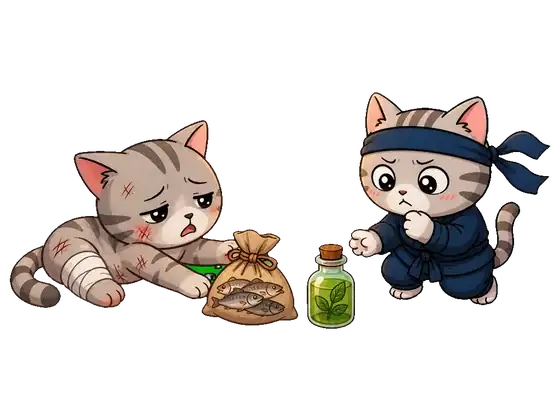
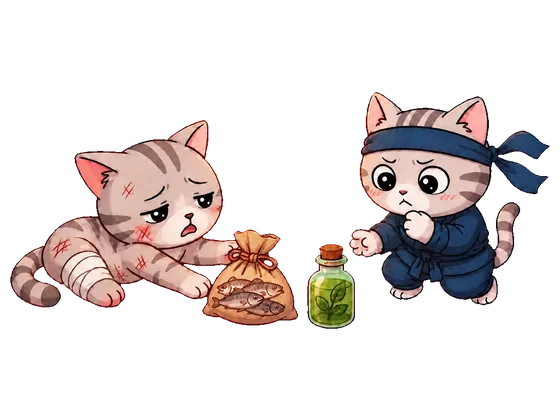
球球：江湖救急開場圖重生，拿掉村貓手臂底下那塊去不掉的深綠色
附目前那張本身重畫、只修那塊（兩張結果圖是照這張畫的，構圖不能變）；參考圖照新圖重建。

Changed region(s): [[0.0, 0.2167, 0.9714, 0.8048]]

diff --git a/tools/make_qiuqiu_fix_0914.py b/tools/make_qiuqiu_fix_0914.py
@@ -70,8 +70,46 @@ elif batch == 'b':
         if not (ROOT / ref).exists() or (ROOT / ref).stat().st_mtime < opening.stat().st_mtime:
             raise SystemExit(f'{ref} 還是舊的：先把新的 event_{eid} 進倉、刪掉這張參考圖再重建（見 make_event_result_jobs.py）')
         jobs[fid] = {'prompt': patched(prompt_of(res[fid]), FACE, fid), 'ref': ref}
+elif batch == 'c':
+    # 江湖救急開場圖：村貓伸出去的手臂底下卡著一小塊深綠色（去背去不掉，原稿已經不在）。使用者 2026-09-14「生」。
+    # **附目前這張本身重畫、只拿掉那塊**：兩張結果圖（rescue_r0、今天剛重生的 rescue_r1）是照這張畫的，換構圖就對不上。
+    # 參考圖 event_refs/rescue.png 就是這張開場圖鋪白底；生完進倉後要照新圖重建（續集的長相全靠它）
+    fid = 'event_rescue.png'
+    ref = 'tools/ref/event_refs/rescue.png'
+    opening = ROOT / 'public' / 'assets' / 'bg' / 'event_rescue.webp'
+    if (ROOT / ref).stat().st_mtime < opening.stat().st_mtime:
+        raise SystemExit(f'{ref} 比開場圖舊：它應該就是目前這張開場圖鋪白底，先重建再生')
+    jobs[fid] = {'prompt': (
+        "A single scene illustration for a story event in a cute cartoon roguelike card game, landscape composition.\n\n"
+        "**THIS IS A CORRECTED REDRAW OF THE ATTACHED PICTURE.** Redraw the attached picture as closely as you can - the "
+        "SAME injured village cat lying on its side with its bandaged leg, the SAME ninja cat, the SAME pouch of dried "
+        "fish and the SAME bottle of herbal medicine, with the SAME poses, colours, sizes and layout. Change ONLY the one "
+        "mistake described below.\n\n"
+        "Scene: an injured village cat lying on its side with a bandaged leg, weakly pushing forward two things - a small "
+        "pouch of dried fish and a bottle of herbal medicine - for the grey ninja cat to choose from\n\n"
+        "**THE ONE THING TO FIX:** in the attached picture a small dark green blotch with two grey spots is stuck in the "
+        "gap UNDER the village cat's outstretched front leg, between its chest and the fish pouch. It is a drawing "
+        "mistake, not an object in the story. Remove it completely: that gap is plain flat background, and where the "
+        "village cat's body is, it is simply its own fur. Nothing dark or shaded fills that gap. The medicine bottle "
+        "and its leaf stay exactly as they are in the attached picture.\n"
+        "THE INJURED VILLAGE CAT has exactly TWO front paws and TWO back legs - four limbs in total, the bandaged leg is "
+        "one of them. No extra paw anywhere.\n"
+        "THE NINJA CAT stays exactly as in the attached picture: his eyes are simple round solid BLACK dots with one "
+        "small white highlight each - never yellow, golden or coloured irises - with the navy headband and its two "
+        "trailing tails and the navy ninja outfit.\n\n"
+        "Tell the story in one readable picture: clear staging, strong silhouettes, expressive faces, only what the\n"
+        "scene needs. It will be shown about 420 pixels wide, so no fine detail that disappears when shrunk.\n"
+        "Style: thick black outlines, flat colors with subtle soft gradients, cute cartoon storybook look,\n"
+        "not photorealistic. Warm torch-lit tower interior lighting unless the scene says otherwise.\n"
+        "No text, no letters, no numbers, no watermark, no user interface, no border.\n"
+        "Background must be a solid pure green (#00FF00), completely flat, for chroma keying - draw only the\n"
+        "characters and the few props the scene needs, standing on nothing. Anything else that is green or dark "
+        "green gets erased by the chroma key and leaves a hole or a blotch, so do not paint any green shadow or "
+        "green shape between the characters.\n"
+        "Output 1024x768 PNG. Save the image as event_rescue.png in the current directory and report the path."),
+        'ref': ref}
 else:
-    raise SystemExit('要指定批次：a（開場圖＋村貓）或 b（結果圖）')
+    raise SystemExit('要指定批次：a（開場圖＋村貓）、b（結果圖）或 c（江湖救急開場圖拿掉那塊綠）')
 
 for fid, job in jobs.items():
     if not (ROOT / job['ref']).exists():

diff --git a/docs/進度紀錄_2026-09-14夜間.md b/docs/進度紀錄_2026-09-14夜間.md
@@ -176,10 +176,10 @@
 6. 貓窩球球的位置：九張底圖逐張量窩在哪。第一、二關三張差不多，一條規則；**第二關原版那張窩比較高、第三關原版那張窩偏右 75 像素**，
    畫面把用的底圖標在 `data-restbg`，樣式表另外對位。除錯頁「跳進畫面」開的是第 0 層，**永遠只看得到原版那張**，要看另外兩張得在主控台改 `__app.run.floor`
 
-**留給菲菲那一輪的**（已在下一節處理，江湖救急那塊綠除外）
+**留給菲菲那一輪的**（都處理了）
 - ~~深藏不露她「不碰箱子」那句還是「上面寫了別拿……我還是聽話好了。」~~
 - ~~她的貓窩位置第一、三關還是舊規則~~
-- 江湖救急**開場圖**村貓手臂下有一小塊深綠色（看不出是草藥還是綠幕沒去乾淨，原稿已經不在，要修只能重生）
+- ~~江湖救急**開場圖**村貓手臂下有一小塊深綠色~~ → 使用者說「生」：附目前那張本身重畫、只拿掉那塊（`make_qiuqiu_fix_0914.py c`），構圖沒變，兩張結果圖照樣對得上；`tools/ref/event_refs/rescue.png` 照新圖重建
 
 ---
 
